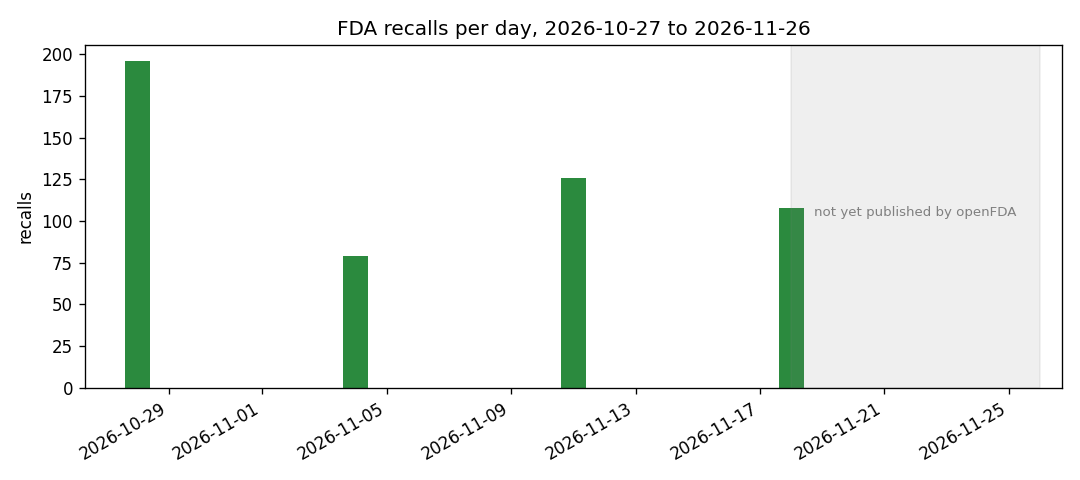
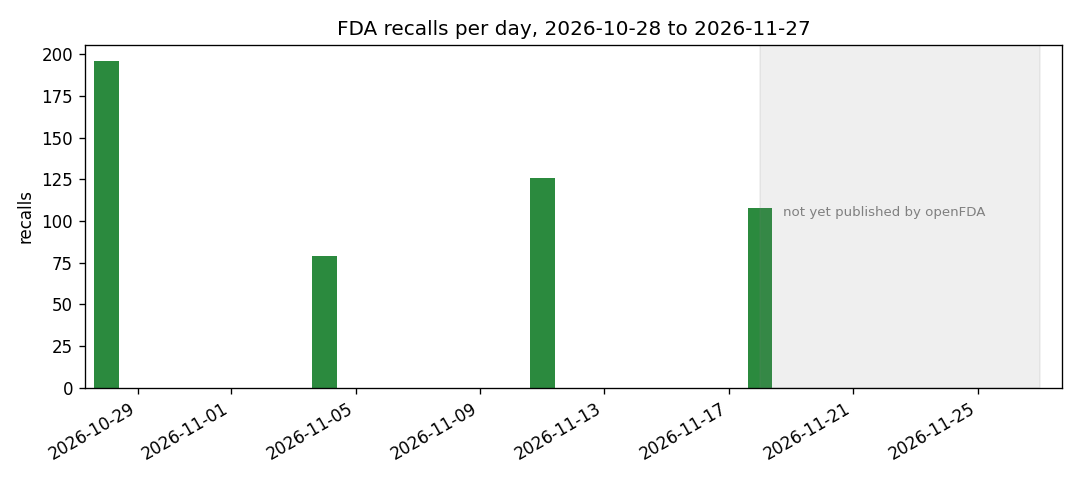
Add initiation vs report month counts; refresh data

diff --git a/src/recallradar/report.py b/src/recallradar/report.py
@@ -59,7 +59,8 @@ def render_markdown(summary: dict, spotlight: list[dict],
                     status_classes: list[dict] | None = None,
                     recurrence: dict | None = None,
                     theme_intervals: list[dict] | None = None,
-                    open_by_type: list[dict] | None = None) -> str:
+                    open_by_type: list[dict] | None = None,
+                    init_vs_rep: list[dict] | None = None) -> str:
     generated_at = generated_at or dt.datetime.now(dt.timezone.utc)
     if endpoint_updated:
         parts = ", ".join(f"{ep} {d}" for ep, d in sorted(endpoint_updated.items()))
@@ -132,6 +133,12 @@ def render_markdown(summary: dict, spotlight: list[dict],
                   "| Classification | Recalls | Ongoing | Ongoing share |", "| --- | ---: | ---: | ---: |"]
         for c in status_classes:
             lines.append(f"| {c['classification']} | {c['recalls']} | {c['ongoing']} | {c['ongoing_share']:.1%} |")
+    if init_vs_rep:
+        lines += ["", "Recalls by initiation month vs report month (window recalls with both dates; the latest initiation "
+                  "months are incomplete because reports arrive late, and old initiations appear only once reported):", "",
+                  "| Month | Initiated | Reported |", "| --- | ---: | ---: |"]
+        for m in init_vs_rep[-8:]:
+            lines.append(f"| {m['month']} | {m['initiated']} | {m['reported']} |")
     if open_by_type:
         lines += ["", "Open recalls by product type (Ongoing status, age since initiation; open means FDA has not terminated "
                   "the recall, not that product is still on shelves):", "",

diff --git a/src/recallradar/analyze.py b/src/recallradar/analyze.py
@@ -619,3 +619,25 @@ def open_age_by_product_type(records: list[dict], today: dt.date, long_open_days
         out.append({"product_type": ptype, "open": len(a), "median_age_days": median,
                     "oldest_days": a[-1], "long_open": sum(x > long_open_days for x in a)})
     return sorted(out, key=lambda r: (-r["open"], r["product_type"]))
+
+
+def initiated_vs_reported_by_month(records: list[dict], min_month_recalls: int = 1) -> list[dict]:
+    """Recalls per month by initiation date next to the same recalls by report
+    date. Initiation can precede the report by weeks or months, so the two
+    views differ: the report-month view reflects publication timing, the
+    initiation view reflects when firms acted. Records need both dates to be
+    parseable; others are skipped. Months sorted ascending; only months seen in
+    either view. Recent initiation months are incomplete (late reports)."""
+    init: dict[str, int] = {}
+    rep: dict[str, int] = {}
+    for rec in records:
+        try:
+            d_init = parse_report_date(rec.get("recall_initiation_date") or "")
+            d_rep = parse_report_date(rec.get("report_date") or "")
+        except ValueError:
+            continue
+        init[d_init.strftime("%Y-%m")] = init.get(d_init.strftime("%Y-%m"), 0) + 1
+        rep[d_rep.strftime("%Y-%m")] = rep.get(d_rep.strftime("%Y-%m"), 0) + 1
+    months = sorted(set(init) | set(rep))
+    return [{"month": m, "initiated": init.get(m, 0), "reported": rep.get(m, 0)}
+            for m in months if init.get(m, 0) + rep.get(m, 0) >= min_month_recalls]

diff --git a/tests/test_analyze.py b/tests/test_analyze.py
@@ -670,3 +670,17 @@ def test_open_age_by_product_type_rules_and_render():
     assert analyze.open_age_by_product_type([], today) == []
     md = report.render_markdown(analyze.summarize(recs), [], dt.date(2026, 11, 1), dt.date(2026, 11, 18), open_by_type=out)
     assert "| Drugs | 2 | 61.5 | 92 | 1 |" in md
+
+
+def test_initiated_vs_reported_by_month_counts_and_skips_bad_dates():
+    from recallradar import analyze, report
+    def r(init, rep):
+        return {"recall_initiation_date": init, "report_date": rep}
+    recs = [r("20260920", "20261005"), r("20261001", "20261006"), r("20261015", "20261105"), r("junk", "20261105"), r("", "20261105")]
+    out = analyze.initiated_vs_reported_by_month(recs)
+    assert out == [{"month": "2026-09", "initiated": 1, "reported": 0},
+                   {"month": "2026-10", "initiated": 2, "reported": 2},
+                   {"month": "2026-11", "initiated": 0, "reported": 1}]
+    assert analyze.initiated_vs_reported_by_month([]) == []
+    md = report.render_markdown(analyze.summarize(recs), [], dt.date(2026, 11, 1), dt.date(2026, 11, 18), init_vs_rep=out)
+    assert "| 2026-10 | 2 | 2 |" in md

diff --git a/scripts/daily_update.py b/scripts/daily_update.py
@@ -114,6 +114,7 @@ def main() -> None:
                                date_gaps=analyze.report_date_gaps(records),
                                lag_months=analyze.lag_by_report_month(records),
                                archive_months=analyze.archive_by_report_month(list(history.values())),
+                               init_vs_rep=analyze.initiated_vs_reported_by_month(records),
                                open_by_type=analyze.open_age_by_product_type(records, dt.date.today()),
                                theme_intervals=analyze.theme_class_i_intervals(records),
                                recurrence=analyze.firm_month_recurrence(list(history.values())),

diff --git a/reports/daily_report.md b/reports/daily_report.md
@@ -1,10 +1,10 @@
 # FDA Recall Radar - daily report
 
-Window: 2026-10-27 to 2026-11-26 (by report date). openFDA last_updated by endpoint: device 2026-11-18, drug 2026-11-18, food 2026-11-18. Generated 2026-11-26 20:04 UTC.
+Window: 2026-10-28 to 2026-11-27 (by report date). openFDA last_updated by endpoint: device 2026-11-18, drug 2026-11-18, food 2026-11-18. Generated 2026-11-27 12:04 UTC.
 
 **509 recalls** across 4 active days.
 
-> **Stale upstream data:** openFDA has not published for over 7 days (device 8 days, drug 8 days, food 8 days). Recent days may be missing here until it does.
+> **Stale upstream data:** openFDA has not published for over 7 days (device 9 days, drug 9 days, food 9 days). Recent days may be missing here until it does.
 
 ## By severity
 
@@ -76,13 +76,26 @@ Recall status by classification (current window; Ongoing means FDA has not yet t
 | Class III | 37 | 7 | 18.9% |
 | Not Yet Classified | 2 | 2 | 100.0% |
 
+Recalls by initiation month vs report month (window recalls with both dates; the latest initiation months are incomplete because reports arrive late, and old initiations appear only once reported):
+
+| Month | Initiated | Reported |
+| --- | ---: | ---: |
+| 2026-02 | 2 | 0 |
+| 2026-04 | 2 | 0 |
+| 2026-05 | 5 | 0 |
+| 2026-07 | 1 | 0 |
+| 2026-08 | 77 | 0 |
+| 2026-09 | 234 | 0 |
+| 2026-10 | 171 | 196 |
+| 2026-11 | 1 | 313 |
+
 Open recalls by product type (Ongoing status, age since initiation; open means FDA has not terminated the recall, not that product is still on shelves):
 
 | Product type | Open | Median age (days) | Oldest (days) | Open over 90 days |
 | --- | ---: | ---: | ---: | ---: |
-| Devices | 265 | 70 | 1721 | 26 |
-| Drugs | 132 | 45 | 218 | 2 |
-| Food | 47 | 51 | 274 | 5 |
+| Devices | 265 | 71 | 1722 | 30 |
+| Drugs | 132 | 46 | 219 | 2 |
+| Food | 47 | 52 | 275 | 5 |
 
 Class I share by reason theme with 95% Wilson intervals (themes under 10 recalls skipped; themes come from a keyword heuristic, not an FDA taxonomy; heavily overlapping intervals are weak evidence of a real difference):
 
@@ -217,10 +230,10 @@ Days since initiation for recalls still marked Ongoing.
 
 | Class | Open | Median age (days) | Oldest (days) | Open > 90 days |
 | --- | ---: | ---: | ---: | ---: |
-| Class I | 61 | 63 | 274 | 5 |
-| Class II | 374 | 63 | 1721 | 27 |
-| Class III | 7 | 49 | 56 | 0 |
-| Not Yet Classified | 2 | 143 | 202 | 1 |
+| Class I | 61 | 64 | 275 | 5 |
+| Class II | 374 | 64 | 1722 | 31 |
+| Class III | 7 | 50 | 57 | 0 |
+| Not Yet Classified | 2 | 144 | 203 | 1 |
 
 ## Reason themes by month
 
@@ -258,15 +271,15 @@ Longest-open recalls still marked Ongoing, by days since initiation.
 
 | Recall | Firm | Class | Initiated | Age (days) |
 | --- | --- | --- | --- | ---: |
-| Z-0428-2027 | Philips Ultrasound, LLC | Class II | 2022-03-11 | 1721 |
-| Z-0321-2027 | Illumina, Inc. | Class II | 2024-05-08 | 932 |
-| Z-0324-2027 | Illumina, Inc. | Class II | 2024-05-08 | 932 |
-| Z-0323-2027 | Illumina, Inc. | Class II | 2024-05-08 | 932 |
-| Z-0322-2027 | Illumina, Inc. | Class II | 2024-05-08 | 932 |
+| Z-0428-2027 | Philips Ultrasound, LLC | Class II | 2022-03-11 | 1722 |
+| Z-0321-2027 | Illumina, Inc. | Class II | 2024-05-08 | 933 |
+| Z-0324-2027 | Illumina, Inc. | Class II | 2024-05-08 | 933 |
+| Z-0323-2027 | Illumina, Inc. | Class II | 2024-05-08 | 933 |
+| Z-0322-2027 | Illumina, Inc. | Class II | 2024-05-08 | 933 |
 
 ## Source data notes
 
-Scope: the 509 recalls with a report date in the rolling window 2026-10-27 to 2026-11-26, not the whole archive (577 recalls keyed by recall_number, which keeps recalls after they leave the window); 2 of the window recalls have no recall_number and are not in the archive. Of the 509: 0 lack an initiation date, 0 have an unparseable date, 0 are reported before their initiation date, 0 lack a classification. Lag and age sections skip those records.
+Scope: the 509 recalls with a report date in the rolling window 2026-10-28 to 2026-11-27, not the whole archive (577 recalls keyed by recall_number, which keeps recalls after they leave the window); 2 of the window recalls have no recall_number and are not in the archive. Of the 509: 0 lack an initiation date, 0 have an unparseable date, 0 are reported before their initiation date, 0 lack a classification. Lag and age sections skip those records.
 
 _Window total includes 2 recalls with no recall_number; they are reported here but cannot be keyed into the archive._
 
